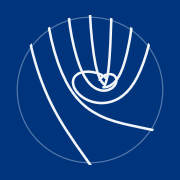
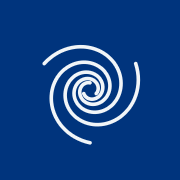
Replace the Field mark with the Orbit spiral
The site owner chose Orbit ("No entry" variant): three strands wound into
one logarithmic spiral around a hidden point, with no ring. The generator
writes large and small paths, and the favicons put the spiral on a
field-blue disc, with a simpler spiral at 16 px.

diff --git a/src/data/mark.ts b/src/data/mark.ts
@@ -1,8 +1,10 @@
 // Generated by scripts/generate-mark.ts. Do not edit; run
-// `pnpm generate:mark` instead. Path data in a 100-unit box, clipped to
-// the circle at (50, 50) with radius 50.
+// `pnpm generate:mark` instead. Path data in a 100-unit box, centred on
+// (50, 50).
 
 export const markPaths = {
-  7: "M10.38 19.50L11.73 25.13L13.11 30.25L14.59 35.17L16.31 40.37L18.07 45.21L20.08 50.22L22.05 54.71L24.21 59.27L26.18 63.12L28.61 67.56L31.16 71.92L33.83 76.22L40.25 85.83L50.27 100.00M22.57 8.19L24.24 16.45L26.27 24.30L28.61 31.65L29.98 35.33L31.28 38.53L34.04 44.40L35.78 47.56L37.30 50.02L38.93 52.40L40.70 54.68L42.60 56.86L44.11 58.41L45.70 59.88L47.92 61.73L49.66 63.02L52.07 64.61L56.44 67.01L58.98 68.18L61.51 69.21L66.51 70.91L71.91 72.39L77.03 73.56L92.23 76.77M35.95 2.01L36.71 8.05L37.89 14.86L39.39 21.68L41.05 27.85L42.84 33.29L44.46 37.31L46.43 41.17L48.43 44.17L49.83 45.82L51.39 47.31L53.14 48.59L54.41 49.29L56.43 50.06L57.85 50.34L59.29 50.43L60.72 50.31L62.12 49.97L64.03 49.09L65.11 48.32L66.39 46.98L67.21 45.54L67.60 44.09L67.56 42.73L67.13 41.52L66.33 40.53L65.19 39.81L63.74 39.43L62.04 39.47L60.18 40.01L58.92 40.68L57.78 41.56L57.27 42.07L56.41 43.23M50.04 0.00L50.53 8.31L51.39 17.56L52.46 26.01L53.69 33.12L54.92 38.03L55.61 40.08L56.45 42.08L57.11 43.36L57.89 44.58L58.81 45.69L59.91 46.61M64.23 2.07L63.59 19.19L63.09 27.45L62.63 33.21L62.14 37.52L61.57 41.08L60.92 43.89L60.45 45.26L60.12 45.90M77.69 8.37L77.01 13.08L76.24 17.63L75.33 22.26L74.45 26.15L73.55 29.63L72.52 33.09L71.56 35.82L70.45 38.48L69.47 40.41L68.35 42.27L67.05 44.00L65.55 45.56L63.82 46.85L62.53 47.51L61.16 47.96L60.45 48.10L59.02 48.17M89.41 19.23L87.69 25.52L85.71 31.55L83.65 36.81L81.50 41.39L79.36 45.15L76.87 48.70L74.48 51.40L71.78 53.80L70.02 55.05L68.15 56.14L66.18 57.06L64.14 57.78L62.74 58.14L60.62 58.52L58.48 58.70L56.39 58.67L54.35 58.45L52.40 58.07L50.56 57.54L48.84 56.89L47.26 56.13L45.35 55.00L43.70 53.77L42.28 52.46L40.85 50.77L39.61 48.73L38.97 47.05L38.65 45.12L38.67 44.20L38.82 43.32L39.08 42.48L39.47 41.68L39.98 40.94L40.62 40.26L41.97 39.27L42.96 38.77L44.09 38.36L46.33 37.90L49.05 37.78L51.63 38.01L54.45 38.62L57.15 39.63L59.03 40.71L60.67 42.11",
-  5: "M12.70 16.71L14.07 22.57L15.54 28.07L17.17 33.50L19.13 39.29L20.98 44.16L23.11 49.21L25.53 54.39L27.86 58.87L30.36 63.27L33.02 67.57L35.84 71.76L38.79 75.87L42.29 80.46L45.89 84.98L57.84 99.38M30.48 3.97L31.49 10.42L32.96 17.52L34.76 24.46L36.69 30.58L38.72 35.91L40.84 40.50L43.01 44.25L44.24 46.03L45.59 47.73L47.58 49.82L49.81 51.65L52.27 53.16L54.25 54.03L55.63 54.47L57.04 54.78L59.19 55.00L61.36 54.93L62.77 54.70L64.15 54.36L66.09 53.61L67.84 52.64L69.37 51.49L70.65 50.20L71.68 48.83L72.65 46.92L73.09 45.48L73.28 43.61L73.21 42.71L72.91 41.42L72.39 40.23L71.91 39.51L71.01 38.53L70.29 37.97L69.03 37.29L68.07 36.95L66.47 36.64L65.29 36.58L64.04 36.67L62.72 36.92L61.36 37.34L60.04 37.93L58.23 39.11L57.18 40.11L56.30 41.25L55.61 42.51L55.34 43.19L55.14 43.88L54.91 45.30L54.99 47.41L55.54 49.32L56.10 50.43L56.79 51.39L57.56 52.17L58.39 52.79L59.26 53.25L60.58 53.62L61.45 53.67L62.29 53.56L63.08 53.31L63.82 52.92L64.48 52.38L65.05 51.72L65.51 50.93L65.85 50.02L66.04 49.01L66.07 47.90L65.77 46.11L64.97 44.27L64.15 43.09L63.67 42.56M50.04 0.00L50.53 8.31L51.39 17.56L52.46 26.01L53.69 33.12L54.92 38.03L55.61 40.08L56.45 42.08L57.11 43.36L57.89 44.58L58.81 45.69L59.91 46.61M69.76 4.07L69.09 12.79L68.19 21.20L67.10 28.86L66.00 34.54L64.86 38.71L63.55 42.08L62.89 43.36L62.11 44.58L61.19 45.69L60.09 46.61M87.24 16.64L85.72 22.76L83.95 28.67L82.09 33.90L80.11 38.55L78.12 42.40L76.18 45.44L73.93 48.27L72.42 49.82L71.33 50.77L68.99 52.45L67.08 53.48L65.75 54.03L64.37 54.47L62.25 54.89L60.08 55.01L57.93 54.83L55.85 54.36L54.54 53.89L53.31 53.31L52.16 52.64L51.12 51.89L50.18 51.07L48.98 49.75L48.32 48.83L47.55 47.40L47.18 46.44L46.83 45.01L46.73 44.07L46.79 42.71L47.09 41.42L47.61 40.23L48.37 39.17L48.99 38.53L50.11 37.72L50.97 37.29L52.44 36.81L53.53 36.64L55.32 36.61L56.61 36.78L57.96 37.11L59.31 37.61L60.59 38.28L61.77 39.11L62.82 40.11L63.70 41.25L64.39 42.51L64.66 43.19L64.86 43.88L65.09 45.30L65.09 46.72L64.87 48.08L64.46 49.32L63.57 50.93L62.44 52.17L61.18 53.04L59.86 53.53L58.55 53.67L57.31 53.46L56.18 52.92L55.23 52.07L54.49 50.93L54.04 49.53L53.93 47.90L54.23 46.11L54.71 44.88L55.41 43.67L56.33 42.56"
+  large:
+    "M50.00 94.00L46.54 93.12L43.22 91.99L40.06 90.62L37.06 89.03L34.25 87.24L31.64 85.26L29.24 83.12L27.05 80.83L25.08 78.41L24.19 77.16L22.95 75.24L21.51 72.61L20.87 71.27L20.03 69.24L19.12 66.51L18.75 65.13L18.30 63.06L17.90 60.31L17.79 58.94L17.72 56.91L17.78 54.90L18.04 52.27L18.36 50.34L18.97 47.85L19.54 46.04L20.46 43.73L21.54 41.53L22.77 39.46L23.79 38.00L25.25 36.18L26.83 34.51L28.51 33.00L30.27 31.65L32.11 30.47L34.00 29.45L35.93 28.60L37.40 28.08L39.37 27.52L40.86 27.22L42.83 26.95L44.30 26.86L46.23 26.87L48.12 27.04L49.96 27.34L51.31 27.67L53.03 28.22L54.69 28.89L56.25 29.68L57.72 30.57L59.10 31.57L60.36 32.65L61.52 33.81L62.56 35.04L63.70 36.65L64.48 37.99L65.28 39.72L65.89 41.48L66.31 43.25L66.55 45.02L66.61 46.76L66.50 48.47L66.22 50.12L65.79 51.71L65.22 53.21L64.51 54.61L63.51 56.16L62.56 57.32L61.30 58.55L60.40 59.27L59.23 60.04L58.26 60.57L57.01 61.10L55.74 61.50L54.47 61.77L53.21 61.90L51.96 61.91L50.75 61.79L49.57 61.56L48.46 61.22L47.20 60.68L46.22 60.13L45.16 59.36L44.37 58.65L43.54 57.72L42.85 56.71L42.22 55.49L41.83 54.40L41.55 53.12L41.45 51.86L41.53 50.63L41.77 49.46L42.23 48.21L42.86 47.10L43.63 46.13L44.52 45.33L45.49 44.70L46.51 44.24L47.69 43.95L48.85 43.87L49.97 43.99M11.89 28.00L14.38 25.44L17.02 23.13L19.79 21.08L22.66 19.28L25.62 17.74L28.64 16.47L31.70 15.46L34.78 14.71L37.86 14.22L39.39 14.07L41.67 13.95L44.66 14.02L46.14 14.14L48.32 14.42L51.15 15.00L52.53 15.37L54.54 16.02L57.12 17.05L58.36 17.64L60.16 18.60L61.87 19.65L64.02 21.19L65.52 22.43L67.38 24.20L68.66 25.60L70.20 27.55L71.57 29.59L72.74 31.69L73.50 33.30L74.34 35.48L75.00 37.68L75.47 39.89L75.76 42.09L75.86 44.27L75.80 46.42L75.57 48.52L75.29 50.05L74.78 52.04L74.30 53.47L73.55 55.31L72.89 56.63L71.92 58.30L70.83 59.86L69.64 61.30L68.69 62.30L67.35 63.52L65.94 64.61L64.47 65.58L62.96 66.40L61.42 67.09L59.85 67.65L58.26 68.07L56.68 68.36L54.71 68.54L53.16 68.54L51.27 68.37L49.44 68.02L47.69 67.50L46.04 66.82L44.50 66.00L43.07 65.05L41.78 63.99L40.63 62.82L39.62 61.58L38.75 60.26L37.92 58.62L37.38 57.22L36.95 55.51L36.77 54.38L36.69 52.97L36.72 51.87L36.88 50.52L37.17 49.22L37.57 47.99L38.09 46.83L38.71 45.74L39.42 44.75L40.20 43.85L41.06 43.05L42.15 42.23L43.12 41.67L44.31 41.13L45.32 40.80L46.55 40.55L47.76 40.45L49.14 40.52L50.27 40.72L51.52 41.12L52.67 41.67L53.69 42.35L54.59 43.15L55.43 44.16L56.08 45.27L56.53 46.42L56.79 47.59L56.85 48.75L56.73 49.86L56.40 51.02L55.88 52.07L55.22 52.98M88.11 28.00L89.07 31.43L89.76 34.87L90.15 38.30L90.27 41.69L90.12 45.02L89.72 48.27L89.06 51.42L88.17 54.46L87.06 57.37L86.43 58.78L85.38 60.81L83.83 63.37L82.99 64.59L81.65 66.33L79.74 68.49L78.73 69.50L77.16 70.92L74.98 72.64L73.85 73.42L72.12 74.50L70.35 75.46L67.94 76.55L66.11 77.23L63.65 77.95L61.80 78.36L59.34 78.72L56.90 78.88L54.49 78.85L52.72 78.70L50.41 78.34L48.17 77.81L46.02 77.11L43.97 76.26L42.03 75.26L40.20 74.13L38.50 72.88L37.31 71.87L35.85 70.44L34.84 69.31L33.62 67.73L32.81 66.51L31.85 64.83L31.05 63.11L30.40 61.36L30.01 60.03L29.62 58.26L29.37 56.50L29.27 54.75L29.31 53.02L29.49 51.34L29.79 49.70L30.22 48.12L30.76 46.60L31.59 44.81L32.36 43.47L33.46 41.91L34.67 40.50L36.00 39.25L37.41 38.16L38.89 37.23L40.43 36.48L42.00 35.89L43.58 35.47L45.17 35.22L46.74 35.13L48.58 35.22L50.06 35.47L51.75 35.94L52.82 36.36L54.08 36.99L55.02 37.57L56.11 38.38L57.09 39.27L57.95 40.24L58.70 41.27L59.33 42.35L59.84 43.46L60.22 44.59L60.49 45.73L60.65 47.09L60.66 48.21L60.53 49.51L60.30 50.55L59.91 51.73L59.39 52.83L58.64 54.00L57.90 54.88L56.93 55.76L55.88 56.48L54.78 57.02L53.64 57.40L52.34 57.62L51.06 57.63L49.83 57.45L48.69 57.08L47.66 56.56L46.76 55.90L45.91 55.03L45.26 54.06L44.81 53.03",
+  small:
+    "M50.00 94.00L47.40 93.32L44.05 92.19L41.65 91.19L38.60 89.65L36.43 88.37L33.71 86.48L31.19 84.43L28.89 82.22L27.31 80.47L25.41 78.04L23.73 75.51L22.29 72.91L21.09 70.24L20.11 67.54L19.38 64.82L18.87 62.10L18.58 59.40L18.53 56.08L18.73 53.48L19.25 50.33L19.88 47.91L20.91 45.03L21.92 42.85L23.40 40.31L25.07 37.98L26.93 35.88L28.95 34.02L31.09 32.41L33.33 31.05L35.63 29.94L37.99 29.10L39.41 28.71L40.83 28.41L42.72 28.15L45.05 28.05L46.88 28.13L49.10 28.43L51.23 28.93L53.25 29.63L55.15 30.51L56.91 31.55L58.52 32.74L59.97 34.04L61.25 35.46L62.56 37.26L63.46 38.84L64.30 40.79L64.80 42.44L65.18 44.42L65.31 46.38L65.17 48.59L64.73 50.70L64.03 52.66L63.10 54.45L62.47 55.38L61.78 56.25L60.45 57.58L59.63 58.24L58.78 58.82L57.90 59.32L57.00 59.74L55.17 60.35L53.33 60.64L52.42 60.67L51.31 60.61L50.45 60.49L49.42 60.25L48.63 59.98L47.69 59.57L46.18 58.64L45.44 58.03L44.78 57.36M11.89 28.00L13.79 26.09L16.43 23.76L18.51 22.18L21.36 20.30L23.56 19.06L26.55 17.65L29.59 16.50L32.65 15.61L34.96 15.12L38.01 14.68L41.04 14.50L44.02 14.55L46.93 14.84L49.75 15.35L52.47 16.07L55.08 16.99L57.57 18.09L60.47 19.71L62.62 21.18L65.09 23.20L66.87 24.96L68.85 27.29L70.23 29.26L71.69 31.80L72.87 34.42L73.76 37.08L74.36 39.76L74.69 42.42L74.75 45.03L74.55 47.59L74.11 50.05L73.73 51.47L73.28 52.85L72.56 54.62L71.49 56.69L70.50 58.24L69.13 60.01L67.63 61.60L66.01 63.00L64.30 64.20L62.52 65.21L60.69 66.01L58.83 66.61L56.97 67.02L54.75 67.25L52.94 67.23L50.83 66.99L49.15 66.60L47.25 65.93L45.48 65.07L43.63 63.84L42.03 62.41L40.68 60.82L39.60 59.12L39.10 58.11L38.70 57.08L38.21 55.26L38.05 54.22L37.97 53.19L37.98 52.18L38.06 51.19L38.46 49.30L39.12 47.56L39.55 46.76L40.15 45.83L40.69 45.15L41.42 44.37L42.04 43.82L42.87 43.21L44.43 42.37L45.33 42.04L46.24 41.80M88.11 28.00L88.82 30.59L89.51 34.05L89.84 36.64L90.04 40.05L90.01 42.57L89.74 45.87L89.22 49.07L88.45 52.17L87.73 54.41L86.58 57.28L85.23 59.99L83.69 62.54L81.99 64.92L80.13 67.11L78.15 69.11L76.05 70.91L73.85 72.51L71.00 74.21L68.65 75.34L65.66 76.47L63.25 77.13L60.24 77.67L57.85 77.89L54.91 77.88L52.06 77.59L49.31 77.03L46.69 76.22L44.22 75.17L41.93 73.92L39.81 72.47L37.90 70.86L36.86 69.82L35.89 68.73L34.72 67.23L33.46 65.26L32.62 63.64L31.76 61.56L31.14 59.47L30.74 57.37L30.55 55.28L30.57 53.24L30.79 51.25L31.20 49.35L31.78 47.53L32.69 45.49L33.61 43.93L34.87 42.23L36.05 40.96L37.58 39.65L39.21 38.56L41.20 37.57L43.24 36.89L45.29 36.52L47.31 36.43L48.43 36.51L49.52 36.68L51.34 37.16L52.32 37.54L53.25 37.99L54.12 38.50L54.94 39.07L56.38 40.35L57.55 41.80L58.03 42.57L58.53 43.55L58.86 44.36L59.16 45.38L59.33 46.20L59.44 47.21L59.39 48.99L59.23 49.94L58.98 50.84"
 } as const;

diff --git a/scripts/generate-mark.ts b/scripts/generate-mark.ts
@@ -1,16 +1,15 @@
-// Generates the Field mark: a round window onto the Pull Field. Run with
-// `pnpm generate:mark` (Node runs TypeScript directly). The output is
-// committed, so the build does not run this.
+// Generates the Field mark ("Orbit"). Run with `pnpm generate:mark` (Node
+// runs TypeScript directly). The output is committed, so the build does not
+// run this.
 //
-// Evenly spaced drops fall through the forces of src/scripts/field/field.ts
-// (900 px square, pull 0.078, core softening 0.01, speed cap 6.5), with no
-// randomness and no current. One well that is never drawn combs them
-// together; a strand that enters its core ages 40 times faster, so it
-// tangles once or twice and ends. The site owner chose this version
-// ("Drift": 7 strands, the well at 0.6, 0.45) on 10 November 2026.
+// Three strands, 120 degrees apart, are wound into one logarithmic spiral
+// around a point that is never drawn: each starts at radius 44 and ends at
+// radius 6 after one and a half turns (1.1 turns, ending at 9, for small
+// sizes; 0.8 turns, ending at 14, for the 16 px favicon). The site owner chose this version ("No entry", from Orbit) on
+// 11 November 2026.
 //
 // Writes:
-// - src/data/mark.ts: path data for the header (7 and 5 strands)
+// - src/data/mark.ts: path data for large and small sizes
 // - public/favicon.svg
 // - public/favicon.ico (16 and 32 px) and public/apple-touch-icon.png
 //   (180 px), drawn by this script with no dependencies
@@ -21,91 +20,28 @@ import {crc32, deflateSync} from "node:zlib";
 
 type Point = [number, number];
 
-const S = 900;
-const WELLS = [{x: 0.6, y: 0.45, m: 1}];
-const CAPTURE = 40;
-const CORE = 0.05;
-const PULL = 0.078;
-const MAX_SPEED = 6.5;
+const STRANDS = 3;
+const START_RADIUS = 44;
+const LARGE = {turns: 1.5, end: 6};
+const SMALL = {turns: 1.1, end: 9};
+const TINY = {turns: 0.8, end: 14};
 
 // Colours: --field-blue and --plaster (src/styles.css) in sRGB.
 const FIELD_BLUE = "#00347d";
 const PLASTER = "#f1f5f8";
 
-/** Each strand as points in a 100-unit box. */
-function strands(count: number): Point[][] {
-  const wells = WELLS.map((w) => ({x: w.x * S, y: w.y * S, m: w.m}));
-  const result: Point[][] = [];
-  for (let i = 0; i < count; i++) {
-    let x = ((i + 0.5) / count) * S;
-    let y = -18;
-    let vx = 0;
-    let vy = 1.4;
-    let life = 400;
-    const points: Point[] = [[x / 9, y / 9]];
-    for (let step = 0; step < 900; step++) {
-      let ax = 0;
-      let ay = 0.03;
-      let near = false;
-      for (const w of wells) {
-        const dx = w.x - x;
-        const dy = w.y - y;
-        const d2 = dx * dx + dy * dy;
-        const r = Math.sqrt(d2) || 1;
-        const f = ((w.m * PULL * 0.0016) / (d2 / (S * S) + 0.01)) * S * 0.06;
-        ax += (dx / r) * f;
-        ay += (dy / r) * f;
-        if (r < S * CORE) near = true;
-      }
-      vx = (vx + ax) * 0.999;
-      vy = (vy + ay) * 0.999;
-      const speed = Math.hypot(vx, vy);
-      if (speed > MAX_SPEED) {
-        vx *= MAX_SPEED / speed;
-        vy *= MAX_SPEED / speed;
-      }
-      life -= near ? CAPTURE : 1;
-      x += vx;
-      y += vy;
-      points.push([x / 9, y / 9]);
-      if (life < 0 || y > S + 40 || x < -60 || x > S + 60 || y < -200) break;
+/** Each strand as points in a 100-unit box, centred on (50, 50). */
+function spiral({turns, end}: {turns: number; end: number}): Point[][] {
+  const decay = Math.log(START_RADIUS / end) / (2 * Math.PI * turns);
+  return Array.from({length: STRANDS}, (_, strand) => {
+    const phase = Math.PI / 2 + (2 * Math.PI * strand) / STRANDS;
+    const points: Point[] = [];
+    for (let t = 0; t <= 2 * Math.PI * turns + 1e-9; t += 0.02) {
+      const r = START_RADIUS * Math.exp(-decay * t);
+      points.push([50 + r * Math.cos(t + phase), 50 + r * Math.sin(t + phase)]);
     }
-    result.push(points);
-  }
-  return result;
-}
-
-/** Cuts a polyline to the parts inside the circle of radius r at (50, 50). */
-function clipToCircle(points: Point[], r: number): Point[][] {
-  const inside = ([x, y]: Point) => (x - 50) ** 2 + (y - 50) ** 2 <= r * r;
-  const crossing = (a: Point, b: Point): Point => {
-    const [ax, ay] = [a[0] - 50, a[1] - 50];
-    const [dx, dy] = [b[0] - a[0], b[1] - a[1]];
-    const qa = dx * dx + dy * dy;
-    const qb = 2 * (ax * dx + ay * dy);
-    const qc = ax * ax + ay * ay - r * r;
-    const root = Math.sqrt(Math.max(0, qb * qb - 4 * qa * qc));
-    const t = [(-qb - root) / (2 * qa), (-qb + root) / (2 * qa)].find(
-      (v) => v >= 0 && v <= 1
-    );
-    const k = t ?? 0;
-    return [a[0] + k * dx, a[1] + k * dy];
-  };
-  const pieces: Point[][] = [];
-  let current: Point[] = [];
-  points.forEach((p, i) => {
-    const previous = points[i - 1];
-    if (inside(p)) {
-      if (!current.length && previous) current.push(crossing(previous, p));
-      current.push(p);
-    } else if (current.length) {
-      current.push(crossing(previous, p));
-      pieces.push(current);
-      current = [];
-    }
+    return points;
   });
-  if (current.length) pieces.push(current);
-  return pieces.filter((piece) => piece.length > 1);
 }
 
 /** Ramer–Douglas–Peucker simplification. */
@@ -133,10 +69,15 @@ function simplify(points: Point[], tolerance: number): Point[] {
   ];
 }
 
-function pieces(count: number): Point[][] {
-  return strands(count)
-    .flatMap((strand) => clipToCircle(strand, 50))
-    .map((piece) => simplify(piece, 0.06));
+function strands(size: typeof LARGE): Point[][] {
+  return spiral(size).map((strand) => simplify(strand, 0.04));
+}
+
+/** Scales lines about the centre, to leave a margin inside the disc. */
+function inset(lines: Point[][], scale: number): Point[][] {
+  return lines.map((line) =>
+    line.map(([x, y]) => [50 + (x - 50) * scale, 50 + (y - 50) * scale])
+  );
 }
 
 function pathData(lines: Point[][]): string {
@@ -148,31 +89,29 @@ function pathData(lines: Point[][]): string {
     .join("");
 }
 
-const seven = pieces(7);
-const five = pieces(5);
+const large = strands(LARGE);
+const small = strands(SMALL);
+// On the favicons the spiral sits on a field-blue disc, with a margin.
+const ICON_INSET = 0.8;
 
-// The disc, a faint ring, and the strands, in plaster on field blue.
-const RING = {radius: 48.5, opacity: 0.35};
-
+// The disc and the strands, in plaster on field blue.
 function svgIcon(lines: Point[][], stroke: number): string {
   return `<svg xmlns="http://www.w3.org/2000/svg" viewBox="0 0 100 100">
   <!-- Field mark: generated by scripts/generate-mark.ts. -->
-  <clipPath id="disc"><circle cx="50" cy="50" r="50"/></clipPath>
   <circle cx="50" cy="50" r="50" fill="${FIELD_BLUE}"/>
-  <circle cx="50" cy="50" r="${RING.radius}" fill="none" stroke="${PLASTER}" stroke-opacity="${RING.opacity}" stroke-width="1.5"/>
-  <path clip-path="url(#disc)" d="${pathData(lines)}" fill="none" stroke="${PLASTER}" stroke-width="${stroke}" stroke-linecap="round" stroke-linejoin="round"/>
+  <path d="${pathData(lines)}" fill="none" stroke="${PLASTER}" stroke-width="${stroke}" stroke-linecap="round" stroke-linejoin="round"/>
 </svg>
 `;
 }
 
 // Rasters are drawn here, not with ImageMagick: its built-in SVG renderer
 // drops unfilled strokes. Each pixel takes the distance to the disc edge,
-// the ring and the nearest strand segment, with one pixel of smoothing.
+// and the nearest strand segment, with one pixel of smoothing.
 function rasterIcon(
   size: number,
   lines: Point[][],
   stroke: number,
-  {square = false, ring = 1.5} = {}
+  {square = false} = {}
 ): Buffer {
   // The square (apple-touch-icon) leaves a margin for iOS's rounded mask.
   const [origin, span] = square ? [-10, 120] : [0, 100];
@@ -217,10 +156,6 @@ function rasterIcon(
           colour = colour.map((v, i) => (c[i] * a + v * alpha * (1 - a)) / out);
         alpha = out;
       };
-      over(
-        plaster,
-        coverage(ring / 2 - Math.abs(r - RING.radius)) * RING.opacity
-      );
       over(plaster, coverage(stroke / 2 - nearest) * disc);
       const offset = (row * size + column) * 4;
       colour.forEach((v, i) => (pixels[offset + i] = Math.round(v)));
@@ -283,26 +218,27 @@ const root = new URL("..", import.meta.url).pathname;
 writeFileSync(
   join(root, "src/data/mark.ts"),
   `// Generated by scripts/generate-mark.ts. Do not edit; run
-// \`pnpm generate:mark\` instead. Path data in a 100-unit box, clipped to
-// the circle at (50, 50) with radius 50.
+// \`pnpm generate:mark\` instead. Path data in a 100-unit box, centred on
+// (50, 50).
 
 export const markPaths = {
-  7: "${pathData(seven)}",
-  5: "${pathData(five)}"
+  large: "${pathData(large)}",
+  small: "${pathData(small)}"
 } as const;
 `
 );
-writeFileSync(join(root, "public/favicon.svg"), svgIcon(five, 4.2));
+const icon = inset(small, ICON_INSET);
+writeFileSync(join(root, "public/favicon.svg"), svgIcon(icon, 4.4));
 writeFileSync(
   join(root, "public/favicon.ico"),
   ico([
-    {size: 16, data: rasterIcon(16, five, 4.2)},
-    {size: 32, data: rasterIcon(32, five, 3)}
+    {size: 16, data: rasterIcon(16, inset(strands(TINY), 0.9), 8)},
+    {size: 32, data: rasterIcon(32, icon, 4.2)}
   ])
 );
 writeFileSync(
   join(root, "public/apple-touch-icon.png"),
-  rasterIcon(180, seven, 1.7, {square: true, ring: 0.8})
+  rasterIcon(180, inset(large, ICON_INSET), 2.4, {square: true})
 );
 
 console.log(

diff --git a/src/styles/components.css b/src/styles/components.css
@@ -134,27 +134,17 @@ a:not(.action) > svg {
   max-width: 12.75em;
 }
 
-/* The Field mark (FieldMark.astro): strands and ring in the text colour,
-   clipped to the circle. Stroke widths are in the mark's 100-unit box. */
+/* The Field mark (FieldMark.astro): strands in the text colour. Stroke
+   widths are in the mark's 100-unit box. */
 .field-mark {
   display: block;
   flex-shrink: 0;
-  overflow: hidden;
-  clip-path: circle(50%);
-}
-
-.field-mark__ring {
-  fill: none;
-  stroke: currentColor;
-  stroke-opacity: 0.35;
-  stroke-width: 1px;
-  vector-effect: non-scaling-stroke;
 }
 
 .field-mark__strands {
   fill: none;
   stroke: currentColor;
-  stroke-width: var(--mark-stroke, 2.6);
+  stroke-width: var(--mark-stroke, 3.8);
   stroke-linecap: round;
   stroke-linejoin: round;
 }
@@ -463,7 +453,7 @@ a:not(.action) > svg {
 }
 
 .conference-programme__mark {
-  --mark-stroke: 1.6;
+  --mark-stroke: 2.4;
   grid-column: 2;
   grid-row: 1 / span 2;
   width: clamp(4.5rem, 2.5rem + 6vw, 9rem);
@@ -673,7 +663,7 @@ a:not(.action) > svg {
 }
 
 .site-footer__mark {
-  --mark-stroke: 2.2;
+  --mark-stroke: 2.4;
   width: 4rem;
   height: 4rem;
 }

diff --git a/DESIGN.md b/DESIGN.md
@@ -1,6 +1,6 @@
 ---
 name: Generative AI and Algorithmic Manipulation
-description: A conference site in plaster type on a deep field blue, over a quiet field of trails bent by forces you never see, marked by a round window onto that field.
+description: A conference site in plaster type on a deep field blue, over a quiet field of trails bent by forces you never see, marked by three of its strands wound into one spiral.
 colors:
   plaster: "oklch(0.968 0.006 245)"
   plaster-shade: "oklch(0.935 0.014 245)"
@@ -145,7 +145,7 @@ Status: revision 4, 10 November 2026. The landing page is now an inverted world:
 
 The conference is about influence you see only in its effects. Behind the whole page, fine rain trails fall across a deep blue ground. Hidden attractors bend them: paths loop through, fly back out and tangle. The attractors are never drawn. The visitor sees only the bending, which is the subject itself: algorithmic systems that steer attention and choice without showing their hand.
 
-The field is quiet on purpose: few trails, low contrast, pale plaster and sky trails on a deep field blue, the same from top to bottom. Content sits directly on it, with no section backgrounds. Only the header keeps a blue glass bar, and the programme is a beige sheet with blue type. The logo, the Field mark, is a round window onto the same field. Where the field makes a piece of text hard to read, a soft local wash appears behind that text alone, and goes again when the field clears. The page stays generous and rectilinear: no cards, no drop shadows, no rounded corners.
+The field is quiet on purpose: few trails, low contrast, pale plaster and sky trails on a deep field blue, the same from top to bottom. Content sits directly on it, with no section backgrounds. Only the header keeps a blue glass bar, and the programme is a beige sheet with blue type. The logo, the Field mark, is three of its strands caught by one hidden point. Where the field makes a piece of text hard to read, a soft local wash appears behind that text alone, and goes again when the field clears. The page stays generous and rectilinear: no cards, no drop shadows, no rounded corners.
 
 It refuses the AI-conference default (near-black, neon gradients, glowing particles, robot imagery) and the academic default the old site had (dense justified text on white, institutional chrome).
 
@@ -154,7 +154,7 @@ It refuses the AI-conference default (near-black, neon gradients, glowing partic
 - A page-wide, fixed Canvas 2D field: sparse, soft trails bent by hidden, drifting attractors.
 - Text directly on the field; a contrast guard adds a local wash only where needed.
 - Field-blue ground, plaster type, trails and actions, a beige programme sheet, one red navigation dot.
-- The Field mark: strands from the field's own physics, combed by a hidden point and clipped to a circle.
+- The Field mark: three strands wound into one spiral around a hidden point.
 - Hedvig Letters Serif for everything spoken; Familjen Grotesk for everything read or used.
 - Square corners, 1px hairlines, no drop shadows, no cards. Nothing animates on entry, and scroll does not drive the field.
 
@@ -256,7 +256,7 @@ Two planes: the field, and the content on it. The interface itself stays flat: n
 
 ## Shapes
 
-Rectilinear. Every corner is square (`--radius: 0`): buttons, menu panel, focus outlines, portraits. The only curves are the navigation dot, the trails of the field, and the circle of the Field mark. Lines are 1px hairlines in the surface's rule colour, used as row separators (speakers, programme sessions, about subjects, venue blocks, fact columns). No left-border accents, no boxes around content.
+Rectilinear. Every corner is square (`--radius: 0`): buttons, menu panel, focus outlines, portraits. The only curves are the navigation dot, the trails of the field, and the spiral of the Field mark. Lines are 1px hairlines in the surface's rule colour, used as row separators (speakers, programme sessions, about subjects, venue blocks, fact columns). No left-border accents, no boxes around content.
 
 ## Components
 
@@ -287,9 +287,9 @@ Rectilinear. Every corner is square (`--radius: 0`): buttons, menu panel, focus 
 
 ### The Field mark (logo)
 
-- A round window onto the Pull Field. Seven evenly spaced drops fall through the field's own forces; one well, never drawn, combs them together, and the strands that come closest tangle once or twice and end. Strands are clipped to the circle, with a faint ring (35 %). Chosen by the site owner on 10 November 2026 ("Drift").
+- Three strands wound into one spiral around a point that is never drawn: the capture the field's wells make. No ring, no clip. Chosen by the site owner on 11 November 2026 ("Orbit", the "No entry" variant), replacing "Drift".
 - Generated, never drawn by hand: `pnpm generate:mark` (`scripts/generate-mark.ts`) writes the path data and the favicons. Details in [field.md](docs/design/field.md#field-mark).
-- `FieldMark.astro` draws it in the text colour of its surface; `--mark-stroke` sets the stroke in its 100-unit box. Seven strands from 64px up, five below.
+- `FieldMark.astro` draws it in the text colour of its surface; `--mark-stroke` sets the stroke in its 100-unit box. The large spiral (1.5 turns) from 64px up, the small one (1.1 turns) below.
 - Places: before the header wordmark; to the right of the programme heading in field blue on beige (72–144px); above the footer title in plaster (64px); favicons and the home-screen icon in plaster on a field-blue disc.
 - Never recolour it outside the palette, rotate it, add a fill behind it on the field, or draw the hidden point.
 
@@ -309,7 +309,7 @@ Rectilinear. Every corner is square (`--radius: 0`): buttons, menu panel, focus 
 ### Don't:
 
 - **Don't** use Vantage Red for anything except the navigation dot, and never draw the attractors.
-- **Don't** add cards, drop shadows, rounded corners or section backgrounds (except the programme sheet). The Field mark's circle is the only round shape besides the navigation dot. The wash is the only text backing, and only where the guard asks for it.
+- **Don't** add cards, drop shadows, rounded corners or section backgrounds (except the programme sheet). The Field mark's spiral is the only round shape besides the navigation dot. The wash is the only text backing, and only where the guard asks for it.
 - **Don't** use uppercase eyebrows, section numbers or decorative icons.
 - **Don't** animate sections on entry, hijack scrolling, or change colours with scroll. The field is the only motion.
 - **Don't** use cream or warm off-white grounds other than the programme's beige sheet, or any palette from the previous KTH/Ungapped page.

diff --git a/docs/design/field.md b/docs/design/field.md
@@ -87,9 +87,9 @@ The scene layer is `aria-hidden`, `pointer-events: none` and `user-select: none`
 
 ## Field mark
 
-The logo is a round window onto the field, chosen by the site owner on 10 November 2026 ("Drift"). `scripts/generate-mark.ts` runs the forces above with no randomness and no current: evenly spaced drops fall, one well at (0.6, 0.45) that is never drawn combs them together, and a strand in its core ages 40 times faster, so it tangles once or twice and ends. The strands are clipped to the circle. Seven strands for large sizes, five at 40px and below (header, favicons). Plaster on field blue, with a ring at 35 %.
+The logo is three strands wound into one spiral around a point that is never drawn, the capture that the field's wells make. The site owner chose it on 11 November 2026 ("Orbit", the "No entry" variant), replacing "Drift" (10 November). `scripts/generate-mark.ts` draws each strand as a logarithmic spiral, 120° apart, from radius 44 to radius 6 in one and a half turns (100-unit box). Small sizes (40px and below, the 32px favicon) use 1.1 turns ending at radius 9; the 16px favicon uses 0.8 turns ending at 14. Plaster strands, with no ring and no clip.
 
-`FieldMark.astro` draws it in the text colour of its surface, with the stroke width set by `--mark-stroke` (100-unit box). It appears in three places: beside the header wordmark (five strands, 36px, 28px on phones, hidden below 390px so the wordmark keeps two lines), to the right of the programme heading in field blue on beige (seven strands, 72–144px), and above the footer title in plaster (seven strands, 64px). The script draws `favicon.ico` and `apple-touch-icon.png` itself, because ImageMagick's built-in SVG renderer drops unfilled strokes.
+`FieldMark.astro` draws it in the text colour of its surface, with the stroke width set by `--mark-stroke` (100-unit box). It appears in three places: beside the header wordmark (small, stroke 3.8, 36px, 28px on phones, hidden below 390px so the wordmark keeps two lines), to the right of the programme heading in field blue on beige (large, stroke 2.4, 72–144px), and above the footer title in plaster (large, stroke 2.4, 64px). The favicons and the home-screen icon put the spiral, scaled to 80 %, on a field-blue disc. The script draws `favicon.ico` and `apple-touch-icon.png` itself, because ImageMagick's built-in SVG renderer drops unfilled strokes.
 
 ## Known limits
 

diff --git a/AGENTS.md b/AGENTS.md
@@ -59,7 +59,7 @@ Commands marked with **(CI)** run in the `Test` workflow on every pull request.
 ### SEO
 
 - `BaseLayout.astro` handles canonical URLs, Open Graph, Twitter cards and sitemap link. `src/consts.ts` defines the production origin and English identity.
-- Social-image tags are emitted only when a real image is supplied. The social card shows the Pull Field. The favicons and the header mark (`FieldMark.astro`) are the Field mark, generated from the field's physics by `scripts/generate-mark.ts`; do not edit their output by hand.
+- Social-image tags are emitted only when a real image is supplied. The social card shows the Pull Field. The favicons and the header mark (`FieldMark.astro`) are the Field mark (a three-strand spiral), generated by `scripts/generate-mark.ts`; do not edit their output by hand.
 - No inferred organizer/copyright attribution or unconfirmed event end time in metadata.
 
 ## Deployment
